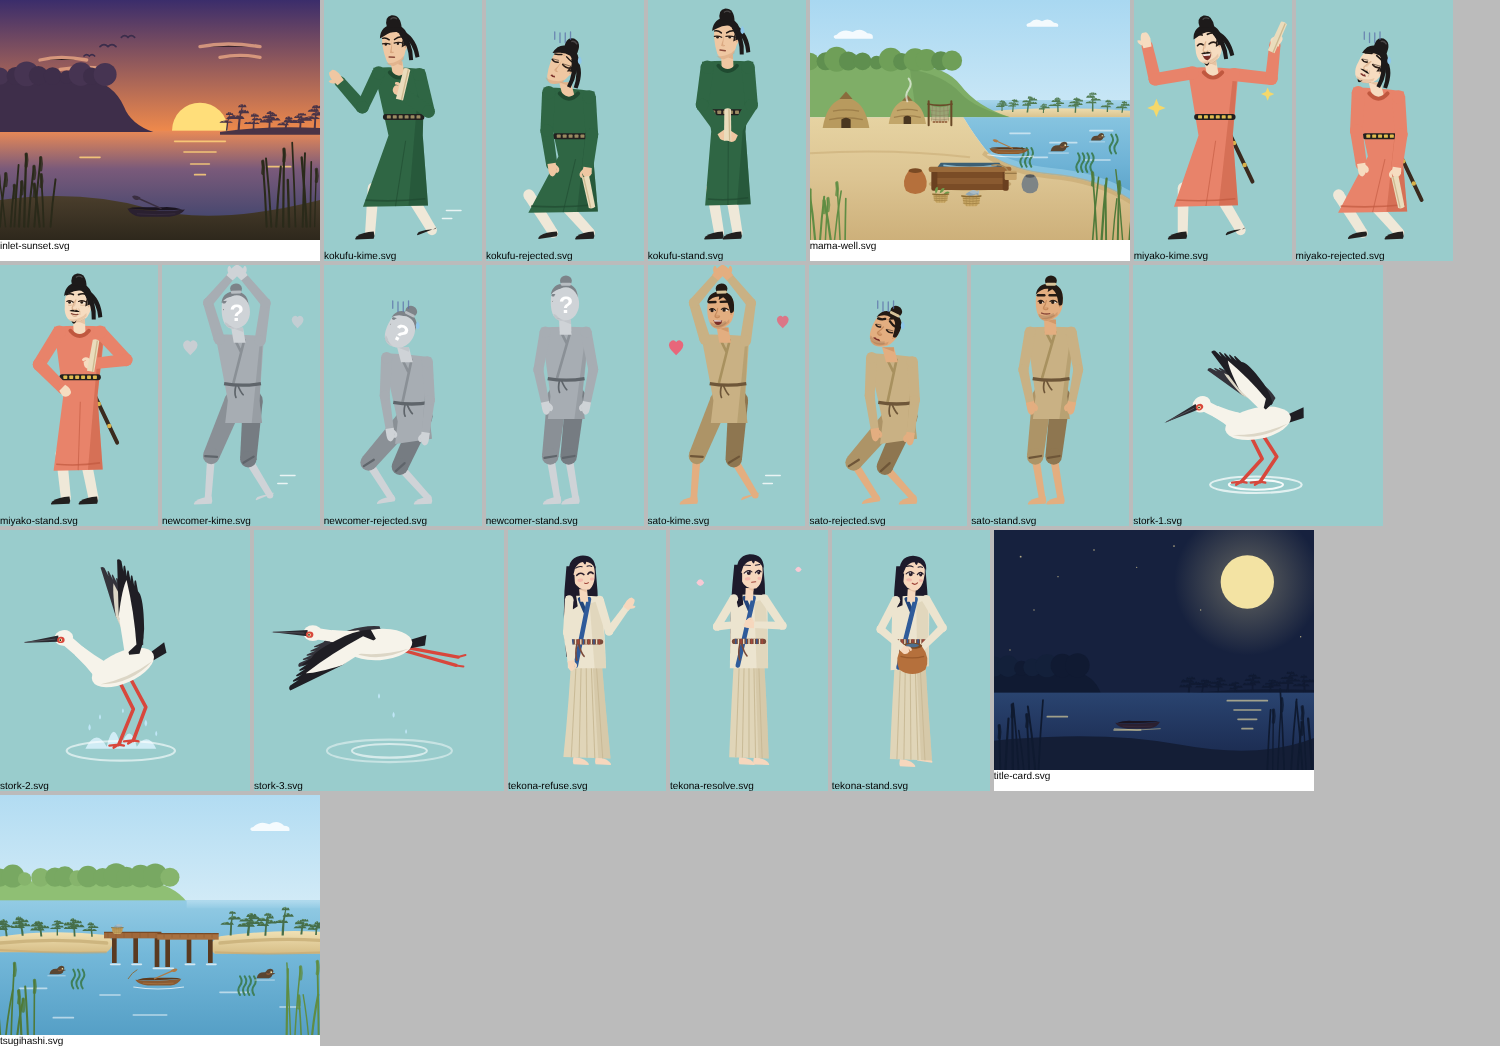
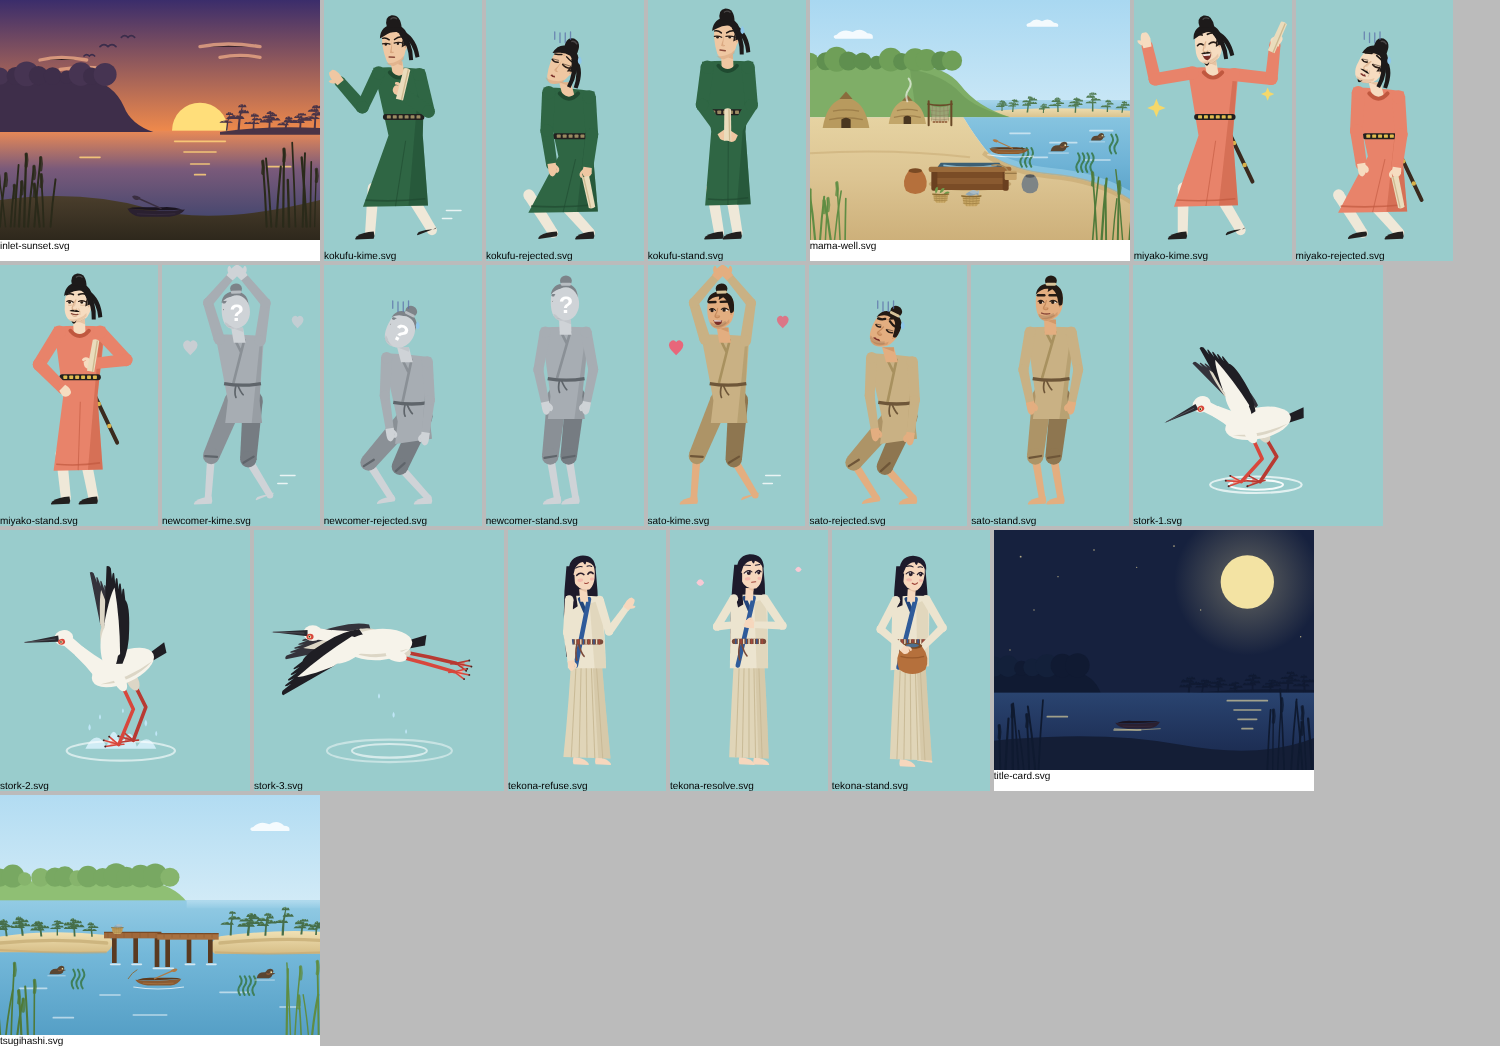
fix(tekona): コウノトリの肩・脚の付け根・足指と水かき・目の位置を直す
- 肩から上腕を白い斜めの楕円で描き、翼を胴体の前寄り（肩）から生やす
- 脚の付け根（すねの上）を羽毛の白い斜めの楕円でおおう（奥の脚は胴体の後ろに）
- 足に前の3本の指と付け根の水かき、後ろの短い指を描く
- 目を頭の中ほどより少し上へ
版4の生成スクリプト・素材・一覧画像と stories/tekona/assets を更新。

Claude-Session: https://claude.ai/code/session_011SEzgWsvxN8M8X3xfVu3am

diff --git a/resources/tekona-workshop/art-versions/README.md b/resources/tekona-workshop/art-versions/README.md
@@ -55,7 +55,8 @@
     継橋のたもとにつないだ丸木舟と橋の上のかご、夕日と月夜の入江の丸木舟（シルエット）。人物と重ならない位置に置いています。
 * **コウノトリの3枚絵**（`stork-1`〜`stork-3`、240×240）：水辺から飛び立つアニメーション。
   1枚目は身をかがめて翼を半分ひらく、2枚目は水をけって翼を高く振り上げる（しぶき）、3枚目は首をのばし翼を打ちおろして宙に浮き、脚を後ろへのばす。
-  白い体・黒い風切羽・黒いくちばし、目のまわりと脚は赤。3枚とも水面の位置（画像の左上から120, 210）をそろえてあるので、
+  白い体・黒い風切羽・黒いくちばし、目のまわりと脚は赤。目は頭の中ほどより少し上。肩から上腕を白い斜めの楕円で描いて翼を胴体の前寄りから生やし、
+  脚の付け根（すねの上）は羽毛の白い斜めの楕円でおおう。足は前の3本の指と付け根の水かき、後ろの短い指。3枚とも水面の位置（画像の左上から120, 210）をそろえてあるので、
   回転の中心をそこにすれば同じ場所で切り替えられます。台本と`project-assets-dsl4.yml`にはまだ登録していません。
 
 ライセンスは`stories/tekona/assets/`と同じMPL-2.0です（[`stories/tekona/LICENSES.md`](../../../stories/tekona/LICENSES.md)）。
